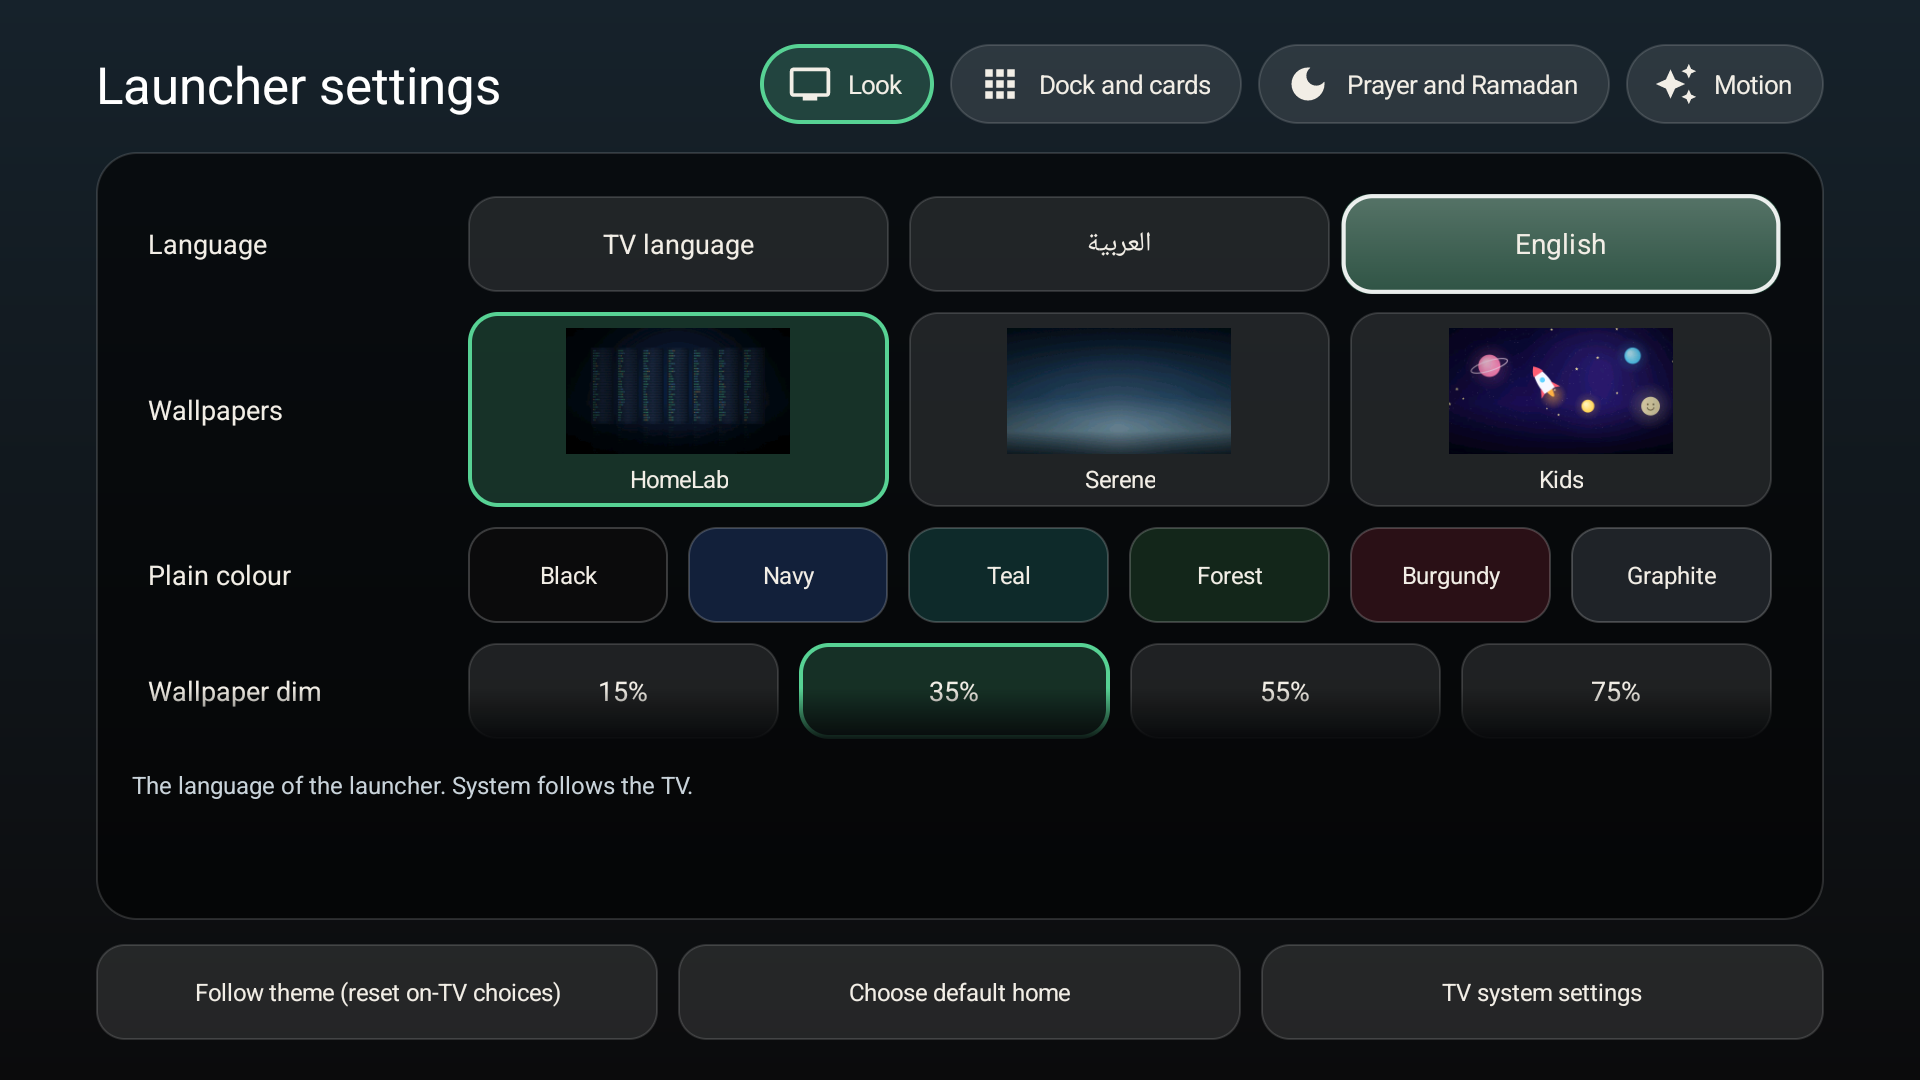
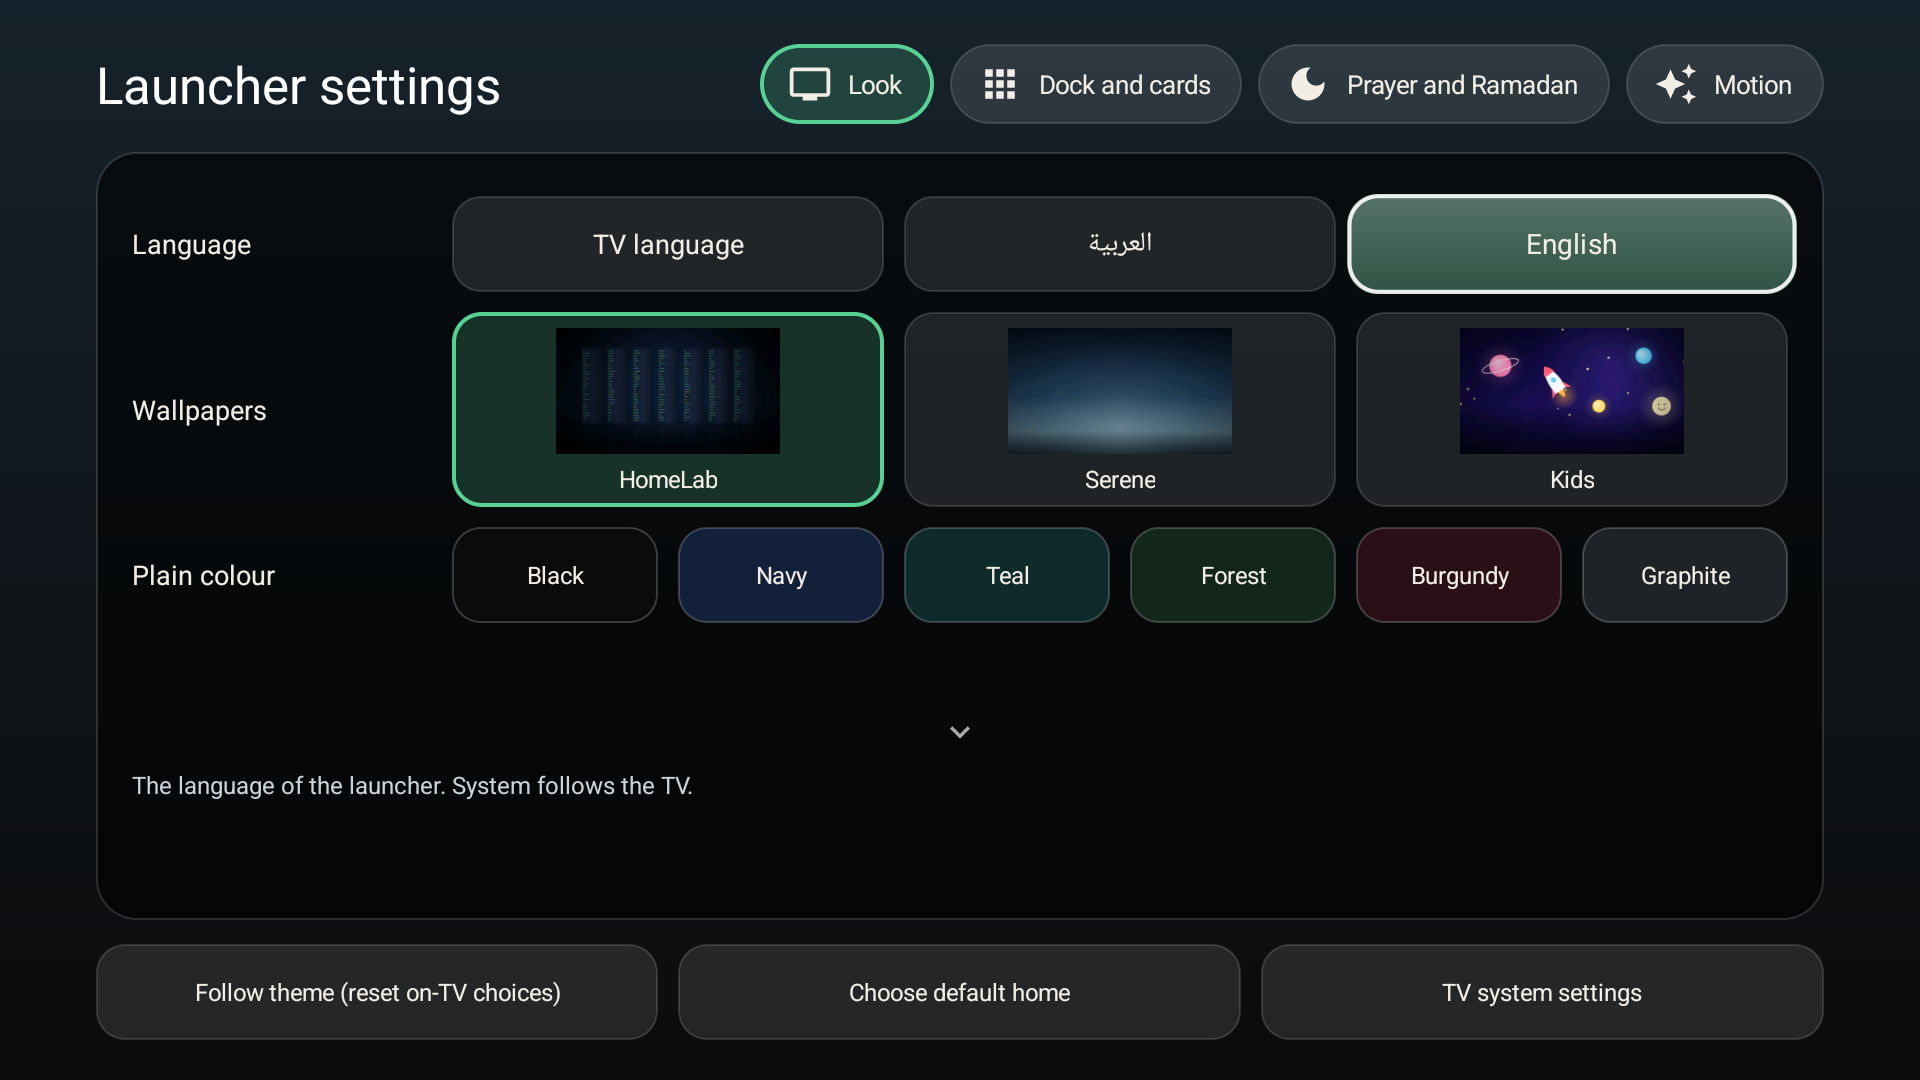
docs: retake the settings screenshots and note the polish in the changelog
The sections now scroll by whole rows with an arrow under the card, so all eight
screenshots (four sections, English and Arabic) are new.

diff --git a/CHANGELOG.ar.md b/CHANGELOG.ar.md
@@ -9,7 +9,7 @@
 (الأقدم من 2.9 موجود بالإنجليزي فقط في [CHANGELOG.md](CHANGELOG.md).)
 
 ## غير مُصدَر بعد
-- **إعدادات المشغّل الزجاجية**: شاشة الإعدادات صارت أربع بطاقات زجاجية (المظهر، الرصيف والبطاقات، الصلاة ورمضان، الحركة) تظهر واحدة كل مرة، مع شريط تبويبات للأقسام، ومصغّرات الخلفيات من صور الـAPK نفسه، ورسم صغير لتخطيط الرصيف (ينعكس في الشاشة العربية)، وعيّنات الأرقام، وسطر شرح واحد يتبع الزر المركّز عليه. المختار قاعدة مملوءة بحافة خضراء، والتركيز هو الحلقة الزجاجية نفسها في الشاشة الرئيسية. اليمين واليسار يمشيان على الصف ويعبران إلى القسم التالي عند حافته، والأعلى والأسفل بين الصفوف، وزر الرجوع يرجع للرئيسية. ما في شي جديد يتحفظ: كل زر يكتب ما كان يكتبه، بلا خيار ولا مفتاح ولا صلاحية ولا ملف جديد. واتجاهات الأسهم يحسمها صنف نقي باختبارات JVM (حدود الأقسام، الترتيب العربي، الصف بزر واحد، القسم الفارغ). ملاحظة التصميم: `docs/SETTINGS_GLASS.ar.md`.
+- **إعدادات المشغّل الزجاجية**: شاشة الإعدادات صارت أربع بطاقات زجاجية (المظهر، الرصيف والبطاقات، الصلاة ورمضان، الحركة) تظهر واحدة كل مرة، مع شريط تبويبات للأقسام، ومصغّرات الخلفيات من صور الـAPK نفسه، ورسم صغير لتخطيط الرصيف (ينعكس في الشاشة العربية)، وعيّنات الأرقام، وسطر شرح واحد يتبع الزر المركّز عليه. المختار قاعدة مملوءة بحافة خضراء، والتركيز هو الحلقة الزجاجية نفسها في الشاشة الرئيسية. اليمين واليسار يمشيان على الصف ويعبران إلى القسم التالي عند حافته، والأعلى والأسفل بين الصفوف، وزر الرجوع يرجع للرئيسية. ما في شي جديد يتحفظ: كل زر يكتب ما كان يكتبه، بلا خيار ولا مفتاح ولا صلاحية ولا ملف جديد. واتجاهات الأسهم يحسمها صنف نقي باختبارات JVM (حدود الأقسام، الترتيب العربي، الصف بزر واحد، القسم الفارغ). والخروج من صف إلى قسم ثاني يحتاج ضغطة ثانية بنفس الزر (والتبويبات هي الطريق السريع)، والأقسام الطويلة تتمرر بالصف الكامل وسهم تحت البطاقة، وحلقة التركيز ما تنقص. ملاحظة التصميم: `docs/SETTINGS_GLASS.ar.md`.
 
 ## 3.0.0 (قيد الإعداد)
 أكبر إصدار من وقت ما تفرّع المشروع: ميزات رمضان والصلاة، ورصيف تقدر تحطه على الجنب، وخيارات شكل أكثر، وصفحة للمتاجر، ونسخة عربية لكل وثيقة موجّهة للمستخدم. كل خيار جديد قيمته الافتراضية هي شكل 2.9، فالترقية ما تغيّر شي لين تختار أنت.

diff --git a/CHANGELOG.md b/CHANGELOG.md
@@ -5,7 +5,7 @@
 All builds keep `versionCode 4` so any of them can replace another with `adb install -r`.
 
 ## Unreleased
-- **Glass Launcher settings**: the settings screen is now four glass cards (Look, Dock and cards, Prayer and Ramadan, Motion) with one showing at a time, a strip of section tabs, wallpaper thumbnails taken from the APK's own pictures, a small drawing of the dock layout (mirrored on the Arabic screen), digit samples, and one explanation line that follows the focused chip. The chosen value is a filled base with a green edge; focus is the home screen's glass ring. Left and Right move along a row and cross to the next section at its edge; Up and Down move between rows; Back returns to Home. Nothing new is saved: every chip writes what it wrote before, with no new option, key, permission or file. The arrow keys are decided by a pure class with JVM tests (section edges, the Arabic order, a one-chip row, an empty section). Design note: `docs/SETTINGS_GLASS.md`.
+- **Glass Launcher settings**: the settings screen is now four glass cards (Look, Dock and cards, Prayer and Ramadan, Motion) with one showing at a time, a strip of section tabs, wallpaper thumbnails taken from the APK's own pictures, a small drawing of the dock layout (mirrored on the Arabic screen), digit samples, and one explanation line that follows the focused chip. The chosen value is a filled base with a green edge; focus is the home screen's glass ring. Left and Right move along a row and cross to the next section at its edge; Up and Down move between rows; Back returns to Home. Nothing new is saved: every chip writes what it wrote before, with no new option, key, permission or file. The arrow keys are decided by a pure class with JVM tests (section edges, the Arabic order, a one-chip row, an empty section). Leaving a row for another section takes a second press of the key (the tabs are the fast way), long sections scroll by whole rows with an arrow under the card, and the focus ring is never clipped. Design note: `docs/SETTINGS_GLASS.md`.
 
 ## 3.0.0 (unreleased)
 The biggest release since the fork: Ramadan and prayer-time features, a dock you can put at the side, more looks to choose from, a store listing and an Arabic twin of every user-facing document. Every new option defaults to the 2.9 look, so an upgrade changes nothing until you pick.
